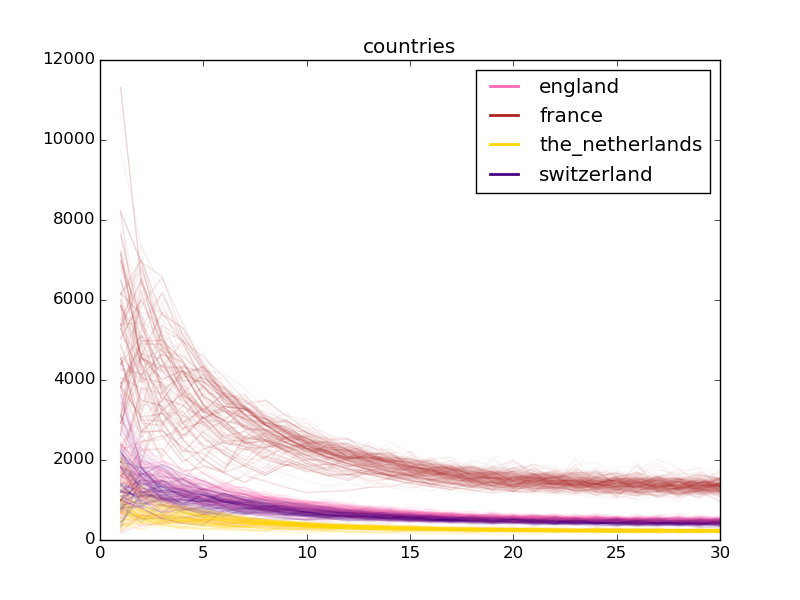
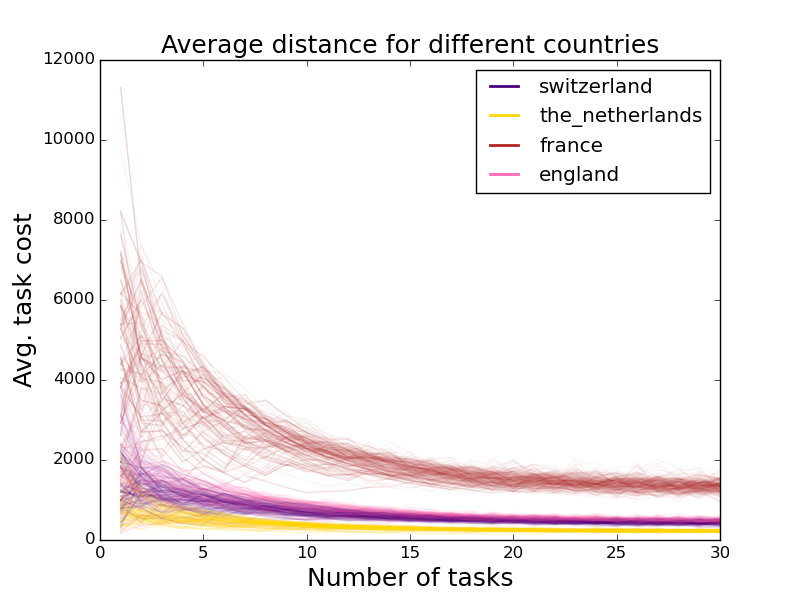
Fixed some old graphs

diff --git a/statistics.py b/statistics.py
@@ -61,9 +61,9 @@ for (dirpath, dirname, filenames) in os.walk('data'):
 
 # plot avg cost compared to number of tasks
 
-def plot(dict_name, dataset, average=False):
+def plot(dict_name, dataset, title, xlabel, ylabel, average=False):
     fig = plt.figure()
-    plt.title(dict_name)
+    plt.title(title, fontsize=18)
     ax1 = fig.add_subplot(111)
     cs = colors.cnames.keys()
 
@@ -101,13 +101,16 @@ def plot(dict_name, dataset, average=False):
         legobj.set_linewidth(2.0)
         legobj.set_alpha(1)
 
+    plt.xlabel(xlabel, fontsize=18)
+    plt.ylabel(ylabel,fontsize=18)
+
     plt.savefig("output/%s.png" % dict_name)
     # plt.show()
 
-plot("number_of_vehicles", number_of_vehicles)
-plot("countries_prob_dist", countries_prob_dist)
-plot("countries_norm_dist", countries_norm_dist)
-plot("countries", countries)
+# plot("number_of_vehicles)
+plot("countries_prob_dist", countries_prob_dist, "Normalized for topology", "Number of tasks", "Relative task cost")
+# plot("countries_norm_dist", countries_norm_dist)
+plot("countries", countries, "Average distance for different countries", "Number of tasks", "Avg. task cost")
 
 # print f
     # for f in filenames:
